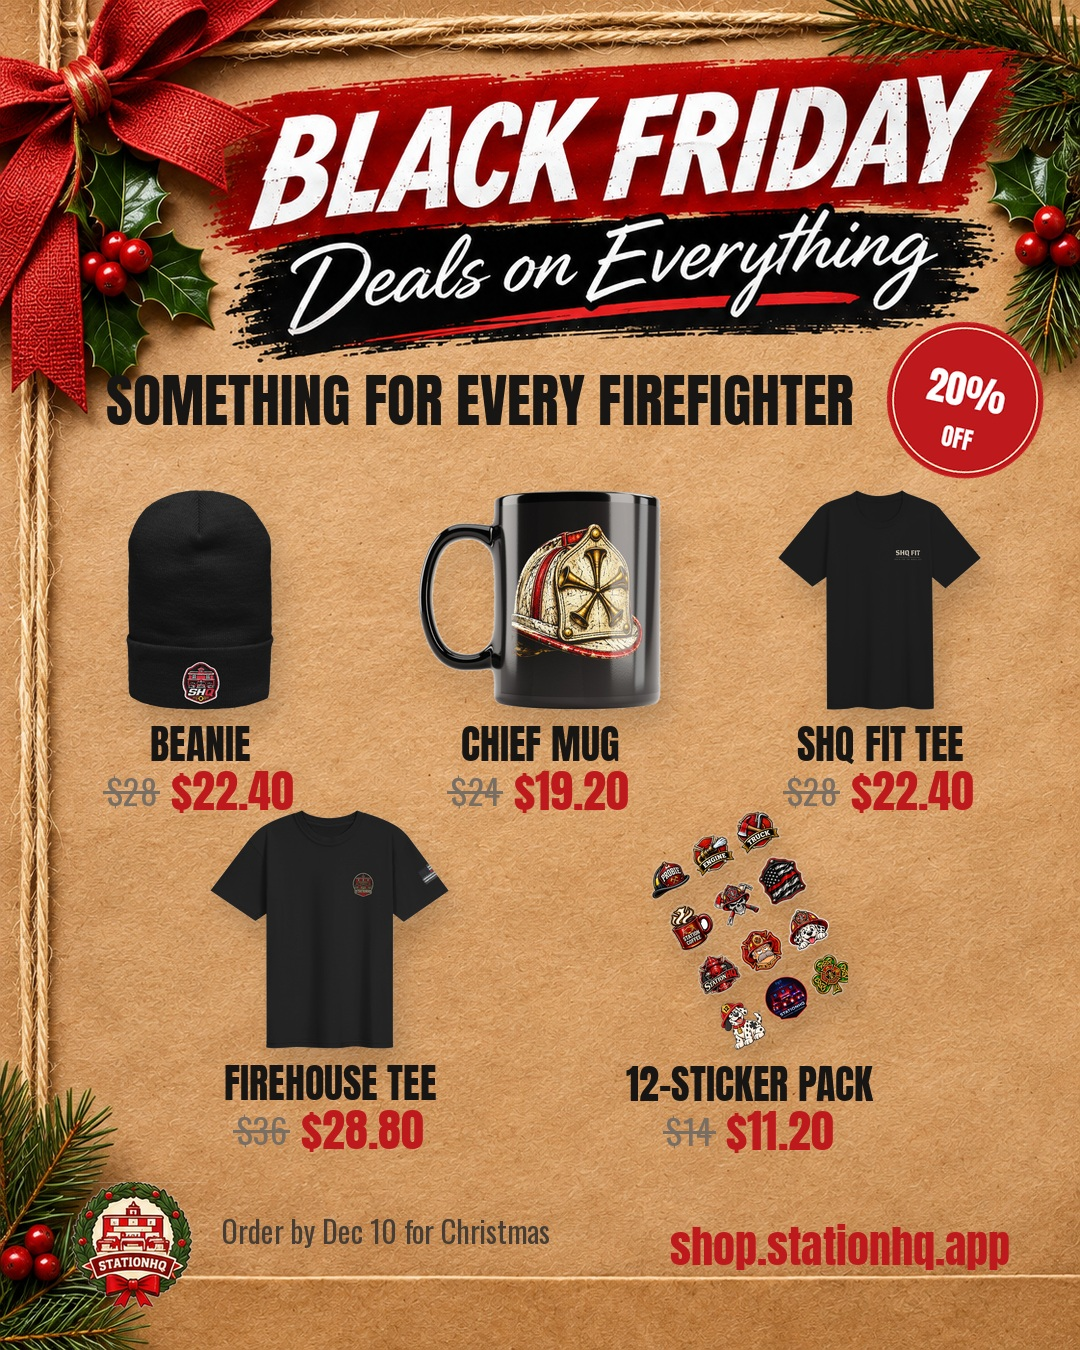
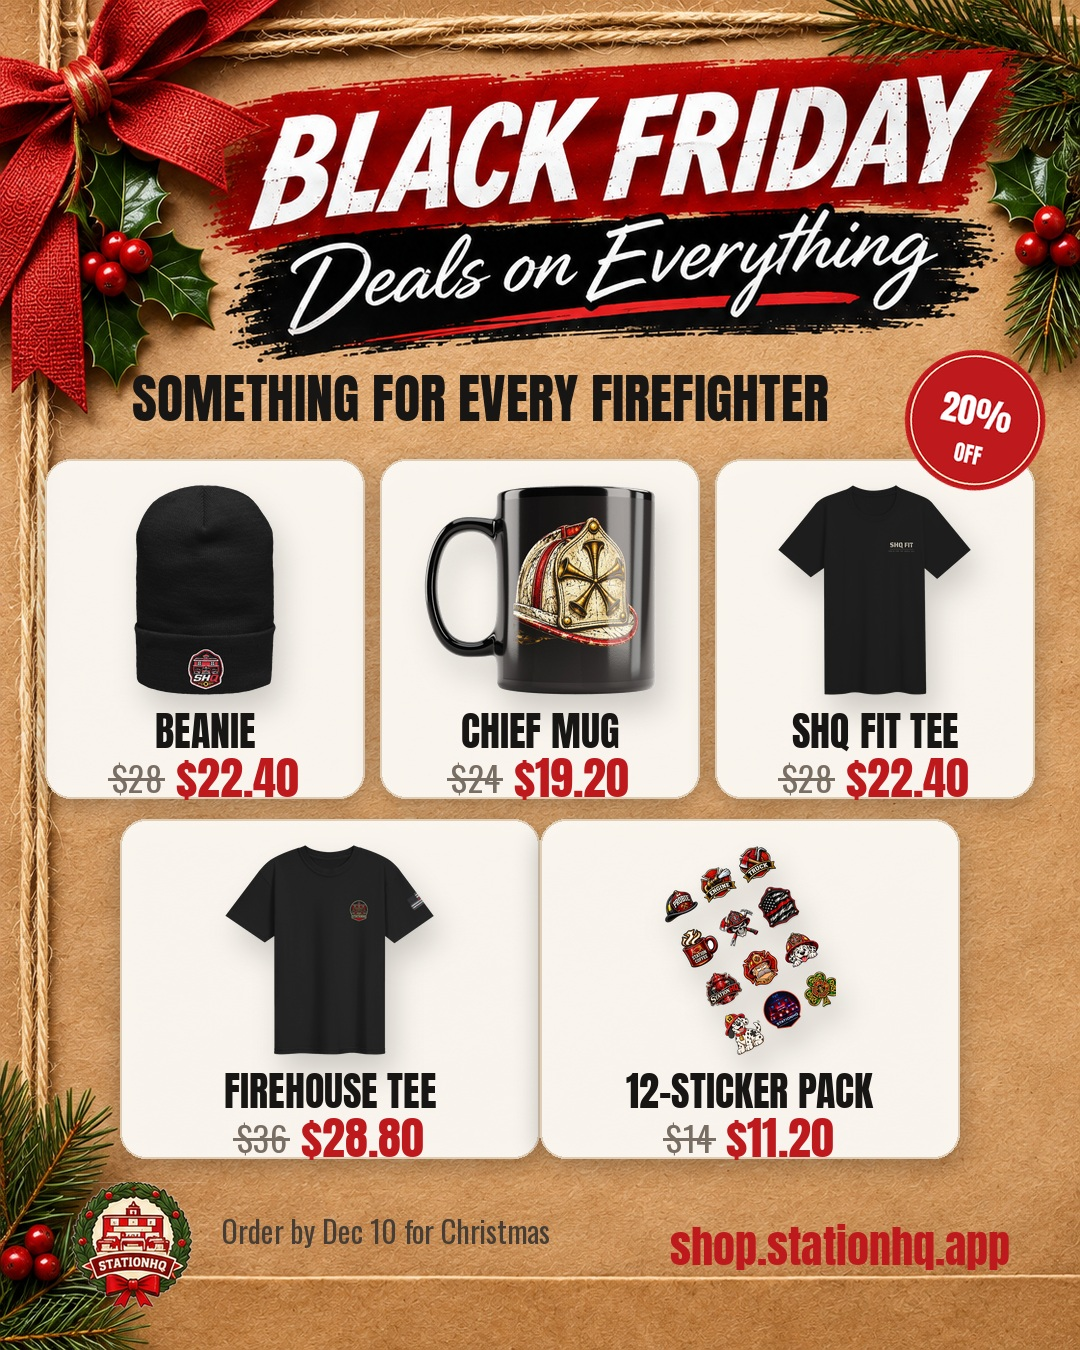
Black Friday ads: product cards layout
Claude-Session: https://claude.ai/code/session_019hAQwsAPzfriaFpaAttWio

diff --git a/content/blackfriday/mixed.py b/content/blackfriday/mixed.py
@@ -8,10 +8,27 @@ def fit_headline(b, text, y, dark=False, maxw=760, size=78):
     while d.textlength(text, font=BIG(size)) > maxw and size > 44: size -= 2
     d.text((W // 2 - 60, y), text, font=BIG(size), fill='white' if dark else (24, 22, 20), anchor='mm')
 
-def item(b, it, cx, cy, box, dark=False):
+CARDS = True
+def card(b, x0, y0, x1, y1, dark=False):
+    sh = Image.new('RGBA', (x1 - x0 + 60, y1 - y0 + 60), (0, 0, 0, 0))
+    ImageDraw.Draw(sh).rounded_rectangle([30, 36, x1 - x0 + 30, y1 - y0 + 36], 26, fill=(0, 0, 0, 70))
+    sh = sh.filter(ImageFilter.GaussianBlur(12))
+    b.alpha_composite(sh, (x0 - 30, y0 - 30))
+    l = Image.new('RGBA', (x1 - x0, y1 - y0), (0, 0, 0, 0))
+    ImageDraw.Draw(l).rounded_rectangle([0, 0, x1 - x0 - 1, y1 - y0 - 1], 26, fill=(252, 249, 243, 246), outline=(222, 206, 184, 255), width=2)
+    b.alpha_composite(l, (x0, y0))
+
+def item(b, it, cx, cy, box, dark=False, cw=None):
     name, lab, price, note = it
-    x, y, w, h = place(b, name, cx, cy, box, glow=dark)
-    ly = y + h + 34
+    if CARDS:
+        cw = cw or box[0] + 40
+        card(b, int(cx - cw / 2), int(cy - box[1] / 2 - 26), int(cx + cw / 2), int(cy + box[1] / 2 + 104))
+        dark_txt = False
+    else:
+        dark_txt = dark
+    x, y, w, h = place(b, name, cx, cy, box, glow=dark and not CARDS)
+    dark = dark_txt
+    ly = cy + box[1] / 2 + 36
     label(b, cx, ly, lab, dark)
     if price is not None:
         sale_tag(b, cx, ly + 46, price, dark)
@@ -21,17 +38,17 @@ def item(b, it, cx, cy, box, dark=False):
 
 def ad(key, head, layout, items, out, dark=False):
     b = bg(key)
-    fit_headline(b, head, 400, dark)
-    badge(b, W - 115, 400, r=80)
+    fit_headline(b, head, 398, dark, maxw=720)
     for it, (cx, cy, bw, bh) in zip(items, layout):
         item(b, it, cx, cy, (bw, bh), dark)
+    badge(b, W - 105, 420, r=72)
     footer(b, 'Order by Dec 10 for Christmas', dark)
     b.convert('RGB').save(f'{OUT}/{out}.jpg', quality=94)
 
 # layouts: (cx, cy, box_w, box_h) — cy is product center
-GRID4 = [(290, 595, 380, 230), (790, 595, 380, 230), (290, 960, 380, 230), (790, 960, 380, 230)]
-HERO3 = [(360, 740, 540, 560), (820, 600, 290, 210), (820, 930, 290, 210)]
-ROW32 = [(200, 600, 290, 220), (540, 600, 290, 220), (880, 600, 290, 220), (330, 930, 340, 240), (750, 930, 340, 240)]
+GRID4 = [(295, 590, 400, 210), (785, 590, 400, 210), (295, 950, 400, 210), (785, 950, 400, 210)]
+HERO3 = [(330, 735, 450, 470), (810, 590, 300, 210), (810, 950, 300, 210)]
+ROW32 = [(205, 590, 280, 210), (540, 590, 280, 210), (875, 590, 280, 210), (330, 950, 380, 210), (750, 950, 380, 210)]
 
 COLOR = ('book:book_coloring.webp', 'COLORING BOOK', None, '$9.99 ON AMAZON')
 NOZZLE = ('book:book_nozzle.webp', "NOZZLE'S BIG NIGHT", None, 'ON AMAZON')
@@ -71,5 +88,4 @@ ad('kraft', 'SOMETHING FOR EVERY FIREFIGHTER', ROW32, [
     ('sticker-pack-12_1', '12-STICKER PACK', 14, ''),
 ], 'bf_everything_kraft')
 
-gifts('dark', True).save(f'{OUT}/bf_gifts_dark.jpg', quality=94)
 print('ok')
